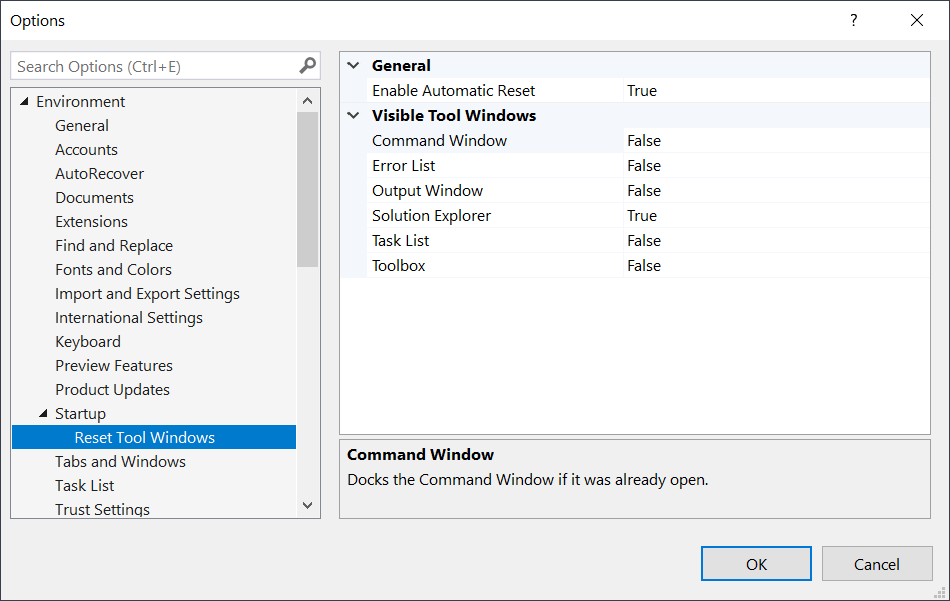
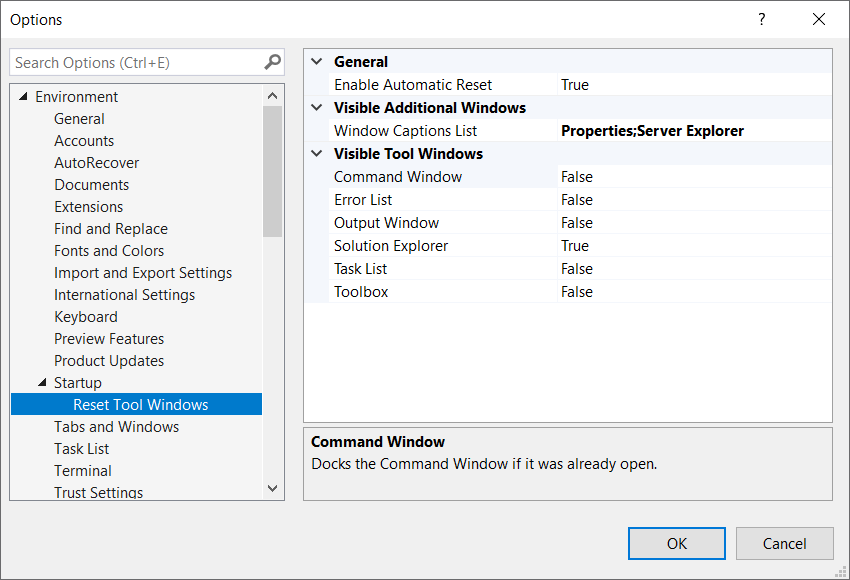
Adding option to specify a custom list of windows to keep open

diff --git a/src/DockHelpers.cs b/src/DockHelpers.cs
@@ -1,6 +1,7 @@
 using EnvDTE;
 using EnvDTE80;
 using Microsoft.VisualStudio.Shell;
+using System.Linq;
 
 namespace ResetToolWindows
 {
@@ -12,15 +13,26 @@ namespace ResetToolWindows
 
             dte.ExecuteCommand("Window.AutoHideAll");
 
-            ToolWindows windows = dte.ToolWindows;
+            ToolWindows toolWindows = dte.ToolWindows;            
             GeneralOptions options = GeneralOptions.Instance;
+            
+            Dock(toolWindows.CommandWindow.Parent, options.ShowCommandWindow);
+            Dock(toolWindows.ErrorList.Parent, options.ShowErrorList);
+            Dock(toolWindows.OutputWindow.Parent, options.ShowOutputWindow);
+            Dock(toolWindows.SolutionExplorer.Parent, options.ShowSolutionExplorer);
+            Dock(toolWindows.TaskList.Parent, options.ShowTaskList);
+            Dock(toolWindows.ToolBox.Parent, options.ShowToolbox);
 
-            Dock(windows.CommandWindow.Parent, options.ShowCommandWindow);
-            Dock(windows.ErrorList.Parent, options.ShowErrorList);
-            Dock(windows.OutputWindow.Parent, options.ShowOutputWindow);
-            Dock(windows.SolutionExplorer.Parent, options.ShowSolutionExplorer);
-            Dock(windows.TaskList.Parent, options.ShowTaskList);
-            Dock(windows.ToolBox.Parent, options.ShowToolbox);
+            var customWindowCaptions = options.CustomWindowCaptionList.Split(';').ToHashSet();
+
+            Windows windows = dte.Windows;
+            foreach (Window window in windows)
+            {
+                if (customWindowCaptions.Contains(window.Caption))
+                {
+                    Dock(window, true);
+                }
+            }
         }
 
         private static void Dock(Window windowToDock, bool shouldDock)

diff --git a/src/GeneralOptions.cs b/src/GeneralOptions.cs
@@ -33,7 +33,7 @@ namespace ResetToolWindows
 
         [Category("Visible Tool Windows")]
         [DisplayName("Output Window")]
-        [Description("Docks the OutputWindow if it was already open.")]
+        [Description("Docks the Output Window if it was already open.")]
         [DefaultValue(false)]
         public bool ShowOutputWindow { get; set; }
 
@@ -54,5 +54,11 @@ namespace ResetToolWindows
         [Description("Docks the Task List if it was already open.")]
         [DefaultValue(false)]
         public bool ShowTaskList { get; set; }
+
+        [Category("Visible Additional Windows")]
+        [DisplayName("Window Captions List")]
+        [Description("Docks the listed windows, separated by semi-colon, if they were already open")]
+        [DefaultValue("")]
+        public string CustomWindowCaptionList { get; set; }
     }
 }

diff --git a/README.md b/README.md
@@ -22,7 +22,10 @@ Choose between:
 * Task List
 * Toolbox
 
+Additionally, if there is another window or two you really want to stay visible then you can accept the potential performance hit and use the custom Window Captions List to specify these.
+
 The fewer tool windows docked on startup, the better the performance. So, if all tool windows were un-docked (collapsed), you got zero negative performance impact from tool windows.
+
 
 ![Options](art/options.png)
 
